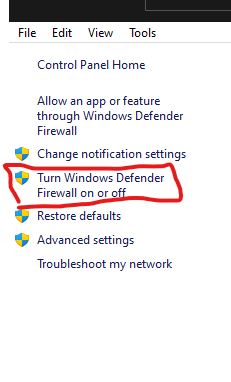
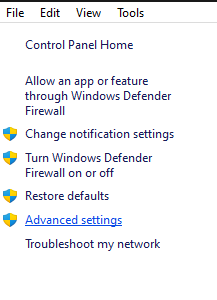
changed readme

Changed region(s): [[0.0, 0.24, 0.8018, 0.84], [0.0, 0.0, 1.0, 0.18]]

diff --git a/README.md b/README.md
@@ -5,6 +5,7 @@ This app is designed to control Tello drone from PC / laptop over WiFi connectio
 ##  Installation
 Before running ensure that the following python libraries are present in your system:
 - tello-python
+- Tkinter
 - opencv
 - pillow
 
@@ -39,10 +40,24 @@ or
 ```bash
 pip install Pillow
 ```
+
+Tkinter installation
+```bash
+conda install -c conda-forge tk
+```
+or
+```bash
+pip install tk
+```
+
 #### !!Important!!
 On Windows PCs check firewall settings for TCP and UDP port blocking.
 
+![firewall_settings_3.png](https://github.com/eligosoftware/tello-controller/blob/main/readme_images/firewall_settings_3.png?raw=true)
+
 ![firewall_settings_1.png](https://github.com/eligosoftware/tello-controller/blob/main/readme_images/firewall_settings_1.png?raw=true)
+
+![firewall_settings_2.png](https://github.com/eligosoftware/tello-controller/blob/main/readme_images/firewall_settings_2.png?raw=true)
 
 ## Running
 
@@ -54,4 +69,26 @@ python main.py
 
 ## Settings
 
-In the Settings menu it is possible to set the drone IP address, movement and angle step values. The standard IP is 192.168.10.1 for the station mode. User should change the IP if the drone is in AP mode. The new settings take place only when the app is launched again.
+In the Settings menu it is possible to set the drone IP address, movement and angle step values. The standard IP is 192.168.10.1 for the station mode. User should change the IP if the drone is in AP mode. Move and angle step affect the drone movement behaviour. See more in Control part. The new settings take place only when the app is launched again.
+
+![settings_1.png](https://github.com/eligosoftware/tello-controller/blob/main/readme_images/settings_1.png?raw=true)
+
+![settings_2.png](https://github.com/eligosoftware/tello-controller/blob/main/readme_images/settings_2.png?raw=true)
+
+## Control
+
+Control window enables Tello drone control using pre-configured buttons
+
+![control.png](https://github.com/eligosoftware/tello-controller/blob/main/readme_images/control.png?raw=true)
+
+Up  - move drone vertically up by move step value
+Down  - move drone vertically down by move step value
+Left  - turn drone left (counter-clockwise) by angle step value
+Right  - turn drone right (clockwise) by angle step value
+Takeoff  - take off the drone from ground
+
+Forward  - move drone forward by move step value
+Back  - move drone backward by move step value
+Move left  - move drone left by move step value
+Move right  - move drone right by move step value
+Land  - perform drone landing
